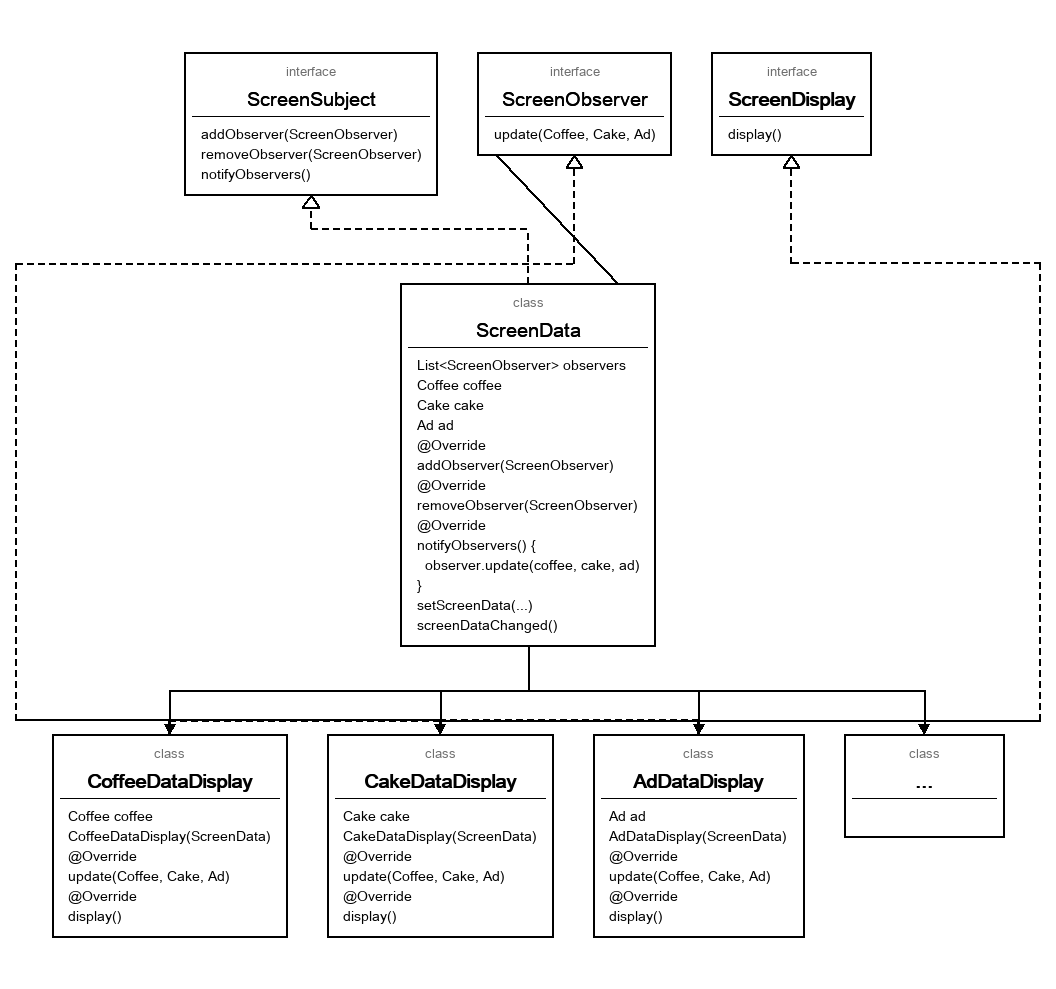
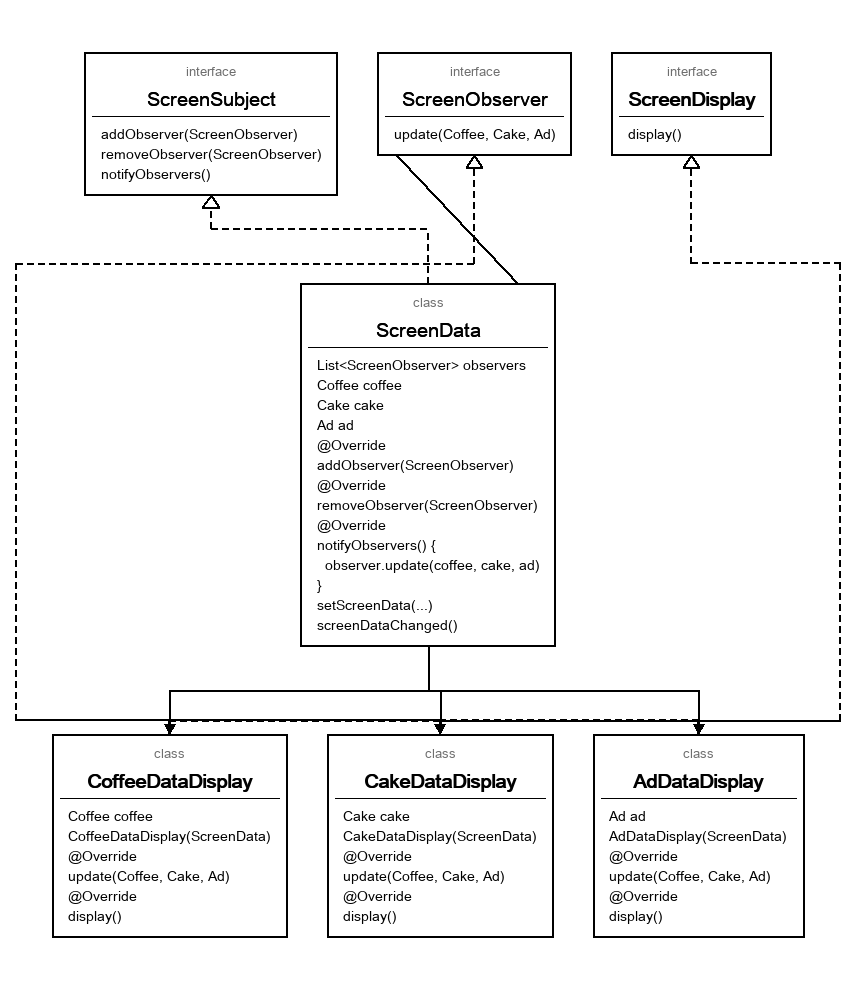
Fix README folder links and remove ellipsis from observer diagrams.

diff --git a/README.md b/README.md
@@ -2,5 +2,5 @@
 
 | 종류 | 코드 | 블로그 링크 |
 | -- | -- | -- |
-| observer pattern | ./observer pattern/ | https://sangddong-develop-log.tistory.com/70 |
-| strategy pattern | ./strategy pattern/ | https://sangddong-develop-log.tistory.com/67 |
+| observer pattern | [./observer pattern/](./observer%20pattern/) | https://sangddong-develop-log.tistory.com/70 |
+| strategy pattern | [./strategy pattern/](./strategy%20pattern/) | https://sangddong-develop-log.tistory.com/67 |
